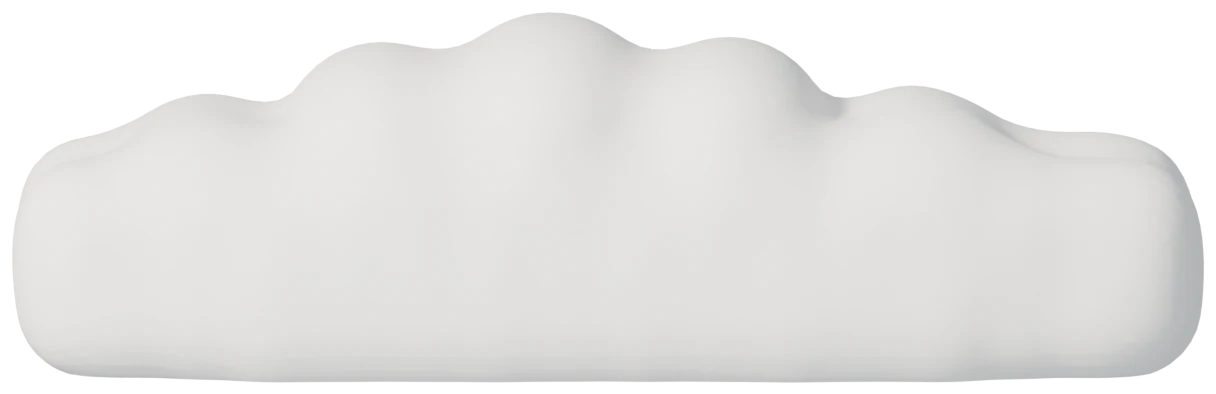
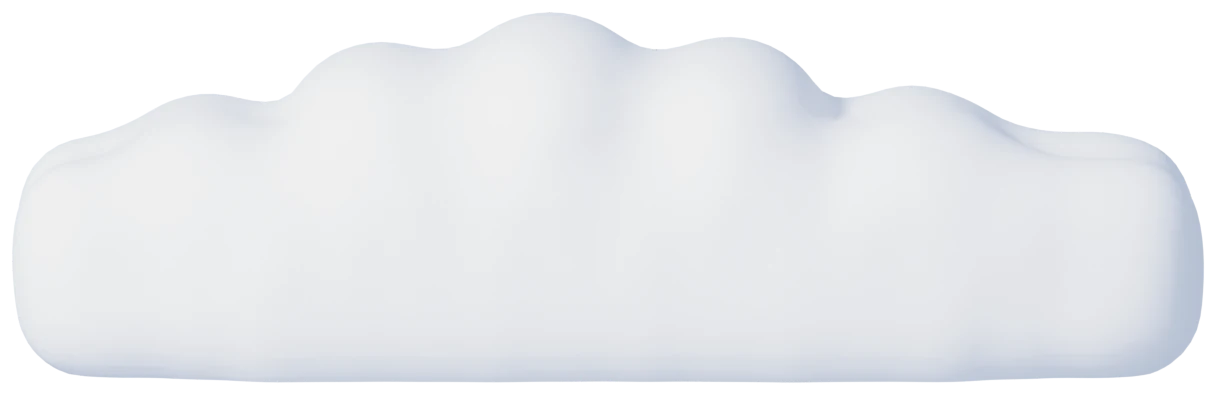
fix: /way's film is graded brighter and more saturated with the grain blended into its colour, and the clouds are bright white with sky in their shade, so nothing reads dusty or grey

diff --git a/components/tts/v4/v4.css b/components/tts/v4/v4.css
@@ -1097,8 +1097,14 @@
   margin-top: -2.4em;
   max-width: min(440px, 32vw);
 }
+/* A grade on the film: the render comes out soft and pastel with lifted
+ * shadows, which read as a dusty screen (Caleb, 2026-10-11, of the mailbox:
+ * "looks like it's on a dusty screen"; the texture "should be making them
+ * more" vibrant). Compared on the mailbox at 1.25, 1.3 and 1.4: 1.4 turned
+ * the sand yellow and the grass neon. */
 .tts .w5-film .w4-media {
   object-fit: cover;
+  filter: saturate(1.28) contrast(1.08);
 }
 .tts .w5-cap.is-tc {
   left: 30%;
@@ -1266,11 +1272,14 @@
  * reader sat on a caption (Chrome trace, 2026-10-11: 36 full paints in 3s).
  * The layer overhangs the film by more than one step on every side, and
  * .w4-body clips it. */
+/* Blended soft-light, the grain darkens and lightens the colour under it
+ * instead of laying grey specks over it. */
 .tts .w5-grain {
   position: absolute;
   inset: -240px;
   pointer-events: none;
-  opacity: 0.9;
+  opacity: 0.55;
+  mix-blend-mode: soft-light;
   will-change: transform;
 }
 .tts .w5-film .w4-body {

diff --git a/scripts/cloud-crop.py b/scripts/cloud-crop.py
@@ -18,6 +18,23 @@ import numpy as np
 from PIL import Image
 
 SRC = sys.argv[1]
+
+
+def grade(im):
+    """Bright white with sky in the shade. Straight out of the render the
+    clouds read flat grey against the graded film (Caleb, 2026-10-11: "The
+    clouds look dead inside"): the lit side goes most of the way to white,
+    and the shaded side keeps its shape in a cool sky blue, the way a
+    cloud's underside takes the sky's colour."""
+    a = np.asarray(im).astype(np.float32) / 255
+    rgb, al = a[..., :3], a[..., 3:]
+    lum = (rgb * [0.2126, 0.7152, 0.0722]).sum(-1, keepdims=True)
+    lit = rgb + (1 - rgb) * 0.4
+    shade = np.clip((0.93 - lum) * 4.0, 0, 1)
+    sky = np.array([0.72, 0.82, 1.0], np.float32)
+    out = lit * (1 - shade * 0.5) + sky * lit * shade * 0.5
+    out = np.concatenate([np.clip(out, 0, 1), al], -1)
+    return Image.fromarray((out * 255).round().astype(np.uint8), "RGBA")
 HERE = os.path.join(os.path.dirname(__file__), "..")
 OUT = os.path.join(HERE, "public", "tts", "machine")
 rows = []
@@ -28,7 +45,7 @@ while os.path.exists(os.path.join(SRC, f"cloud-{k}.png")):
     ys, xs = np.where(a)
     m = 12
     box = (xs.min() - m, ys.min() - m, xs.max() + m + 1, ys.max() + m + 1)
-    crop = im.crop(box)
+    crop = grade(im.crop(box))
     crop.save(os.path.join(OUT, f"cloud-{k}.webp"), "WEBP", quality=88, method=6, alpha_quality=90)
     al = np.asarray(crop)[..., 3] > 128
     W, H = crop.size
